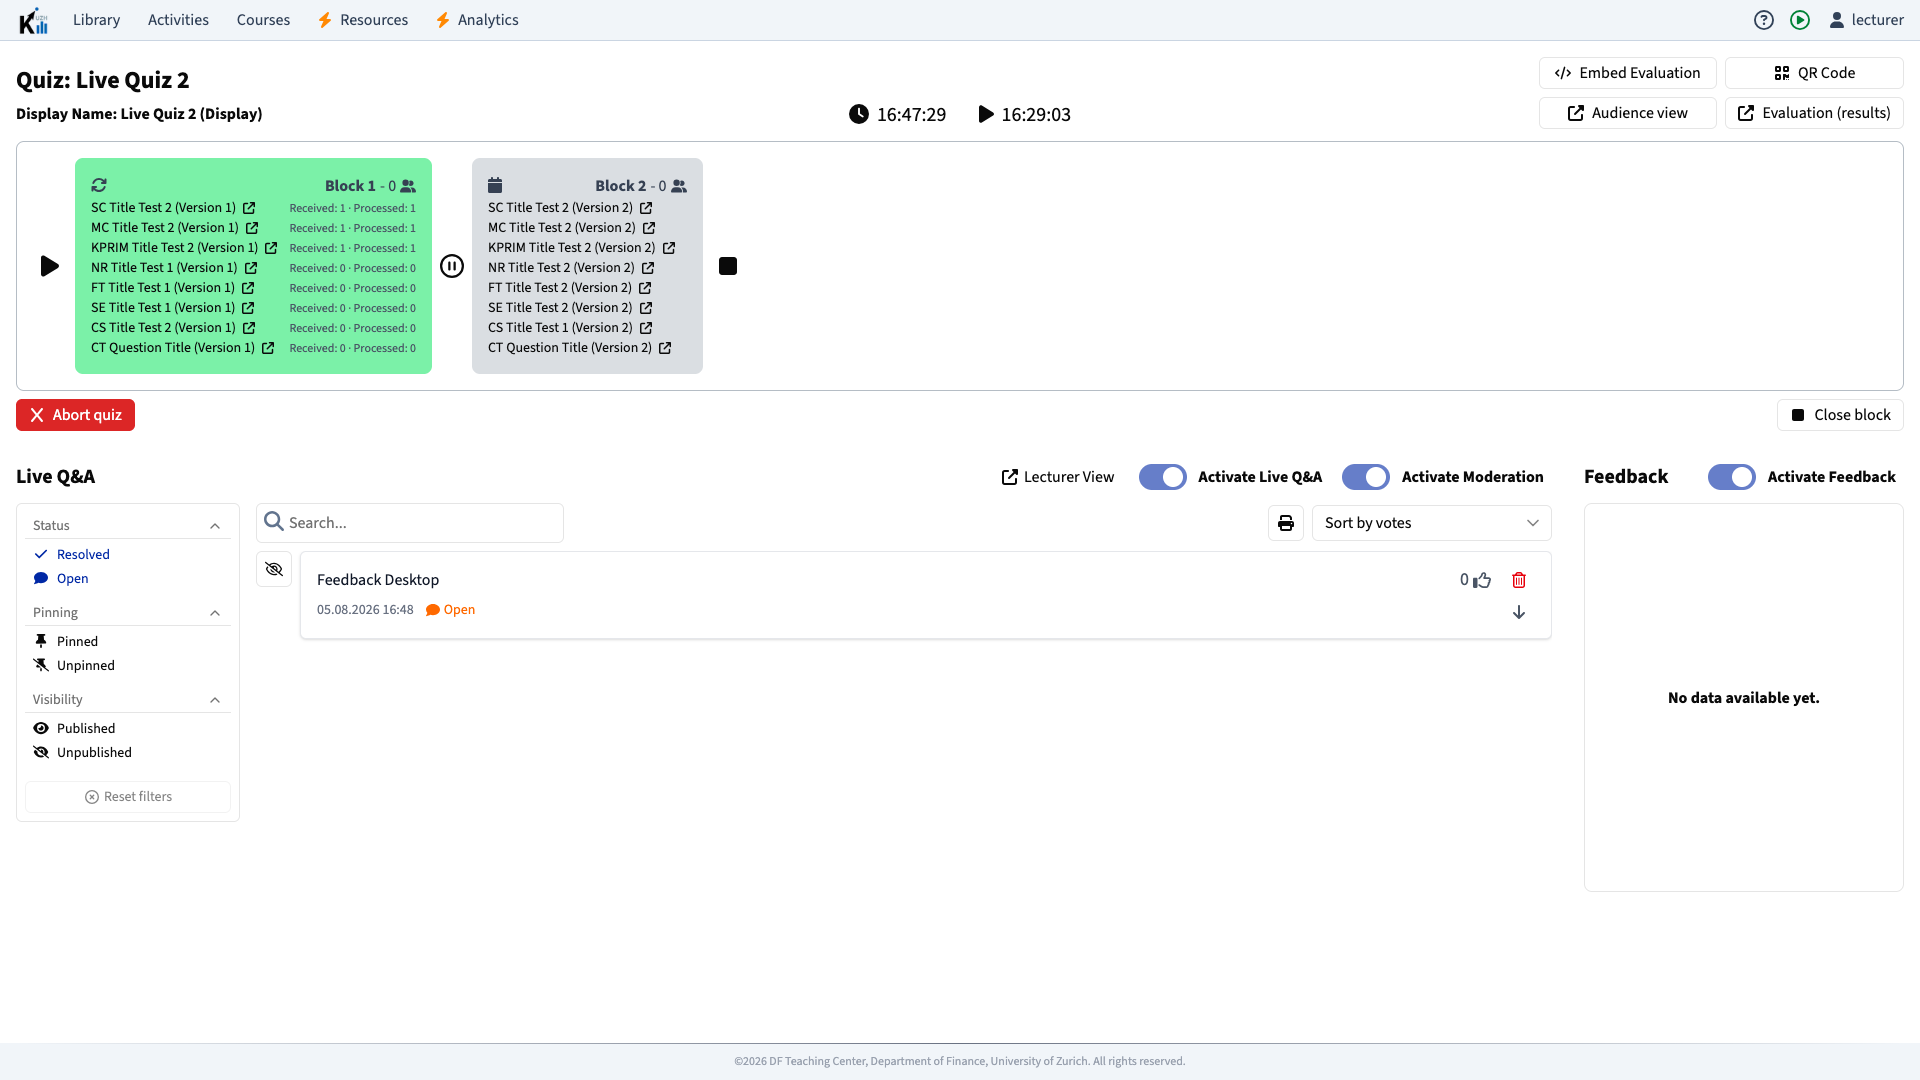
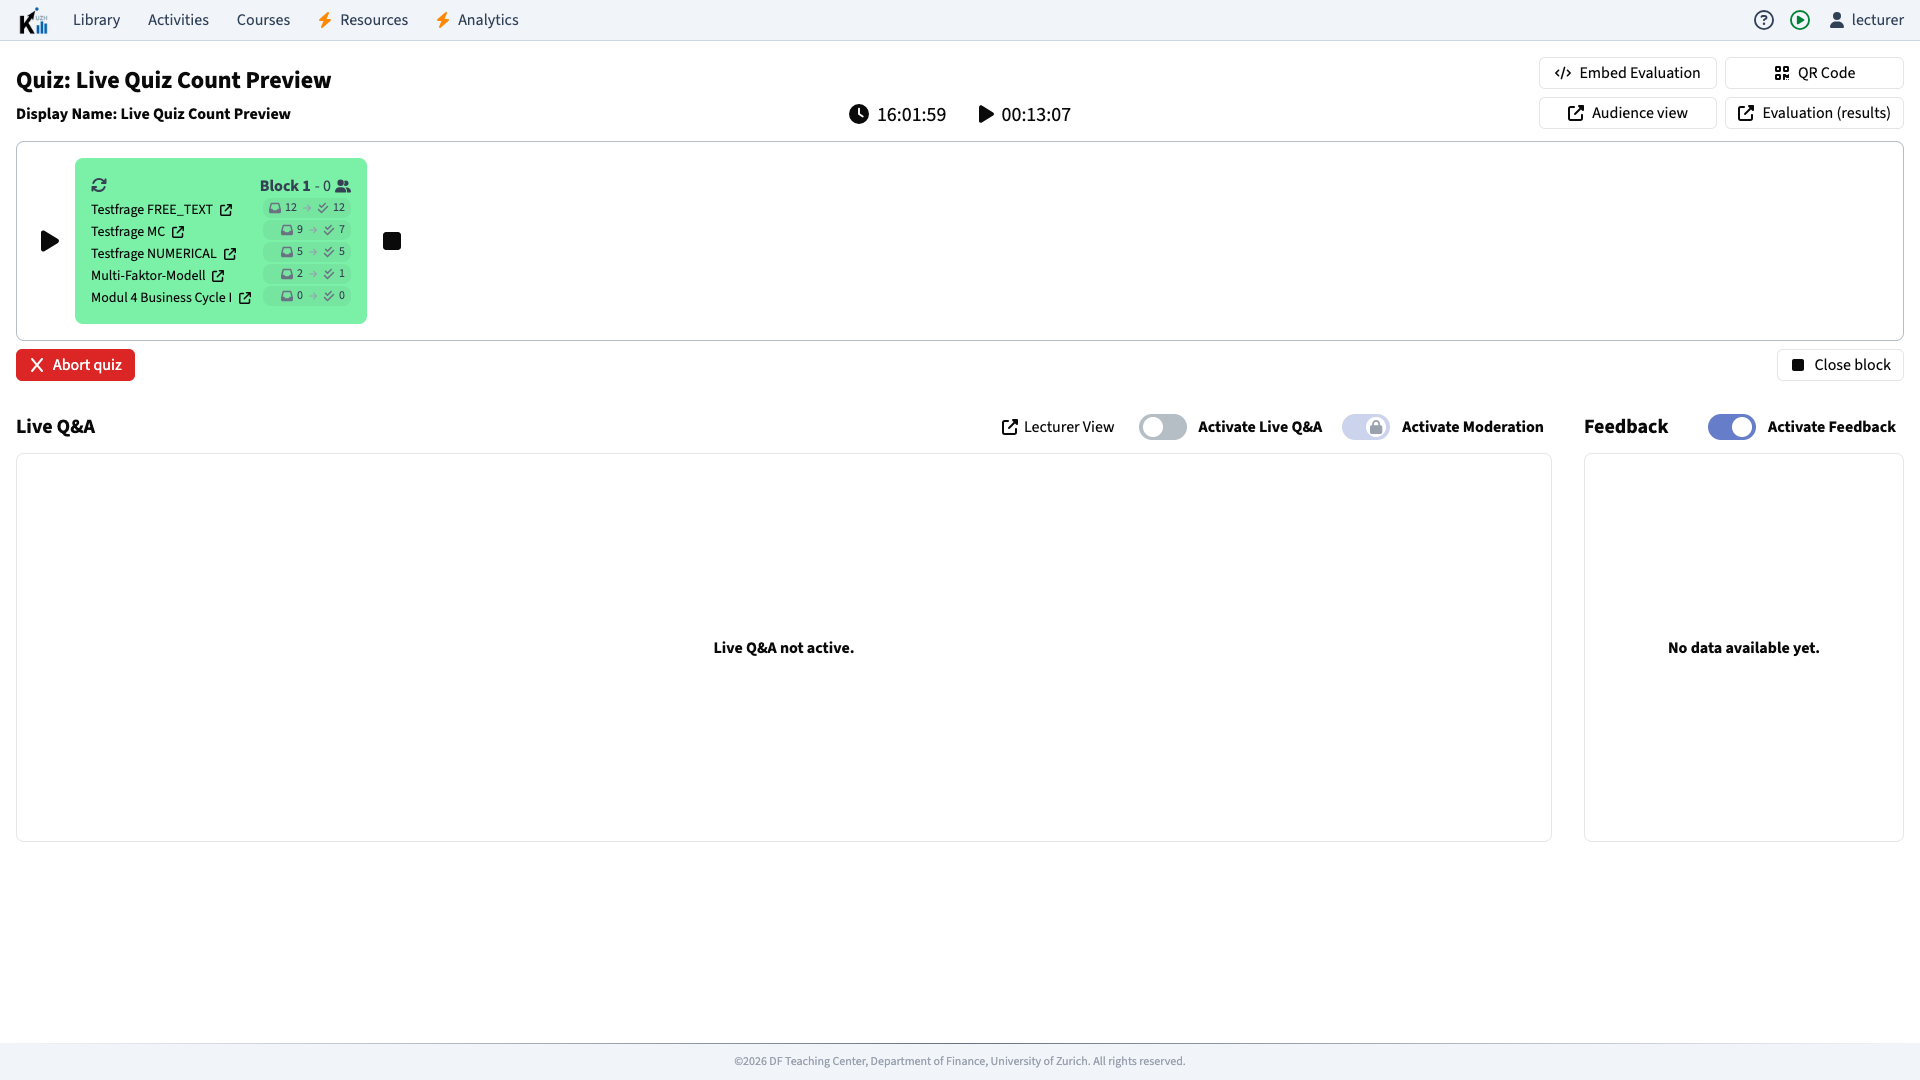
style(manage): simplify live quiz response counts

diff --git a/apps/frontend-manage/src/components/liveQuiz/cockpit/LiveQuizBlock.tsx b/apps/frontend-manage/src/components/liveQuiz/cockpit/LiveQuizBlock.tsx
@@ -1,7 +1,10 @@
 import {
+  faArrowRight,
   faCalendar,
   faCheck,
+  faCheckDouble,
   faExternalLink,
+  faInbox,
   faSync,
   faUserGroup,
 } from '@fortawesome/free-solid-svg-icons'
@@ -98,6 +101,13 @@ function LiveQuizBlock({
             typeof numOfResponsesReceived !== 'undefined' &&
             numOfResponsesProcessed !== null &&
             typeof numOfResponsesProcessed !== 'undefined'
+          const responseCountLabel = hasResponseCounts
+            ? `${t('manage.cockpit.responsesReceived', {
+                number: numOfResponsesReceived,
+              })} · ${t('manage.cockpit.responsesProcessed', {
+                number: numOfResponsesProcessed,
+              })}`
+            : undefined
 
           return (
             <div key={instance.id} className="contents">
@@ -116,16 +126,29 @@ function LiveQuizBlock({
               </Link>
               {hasResponseCounts ? (
                 <span
-                  className="whitespace-nowrap text-right text-xs text-gray-600"
+                  aria-label={responseCountLabel}
+                  className="inline-flex items-center justify-end gap-1 whitespace-nowrap rounded bg-black/5 px-1.5 py-0.5 text-xs text-gray-700 tabular-nums"
                   data-cy={`live-quiz-response-counts-${instance.id}`}
+                  role="img"
+                  title={responseCountLabel}
                 >
-                  {t('manage.cockpit.responsesReceived', {
-                    number: numOfResponsesReceived,
-                  })}
-                  <span aria-hidden="true"> · </span>
-                  {t('manage.cockpit.responsesProcessed', {
-                    number: numOfResponsesProcessed,
-                  })}
+                  <FontAwesomeIcon
+                    aria-hidden="true"
+                    className="w-3 text-gray-500"
+                    icon={faInbox}
+                  />
+                  <span aria-hidden="true">{numOfResponsesReceived}</span>
+                  <FontAwesomeIcon
+                    aria-hidden="true"
+                    className="mx-0.5 w-2 text-gray-400"
+                    icon={faArrowRight}
+                  />
+                  <FontAwesomeIcon
+                    aria-hidden="true"
+                    className="w-3 text-gray-500"
+                    icon={faCheckDouble}
+                  />
+                  <span aria-hidden="true">{numOfResponsesProcessed}</span>
                 </span>
               ) : (
                 <span aria-hidden="true" />

diff --git a/playwright/tests/O-live-quiz.spec.ts b/playwright/tests/O-live-quiz.spec.ts
@@ -3158,20 +3158,20 @@ test.describe.serial('Different live-quiz workflows', () => {
         .locator('xpath=..')
       const counts = elementRow.getByTestId(/^live-quiz-response-counts-/)
 
-      await expect(counts).toContainText(
+      const responseCountLabel = [
         messages.manage.cockpit.responsesReceived.replace(
           '{number}',
           String(expected)
         ),
-        { timeout: 30_000 }
-      )
-      await expect(counts).toContainText(
         messages.manage.cockpit.responsesProcessed.replace(
           '{number}',
           String(expected)
         ),
-        { timeout: 30_000 }
-      )
+      ].join(' · ')
+
+      await expect(counts).toHaveAttribute('aria-label', responseCountLabel, {
+        timeout: 30_000,
+      })
     }
   })
 
